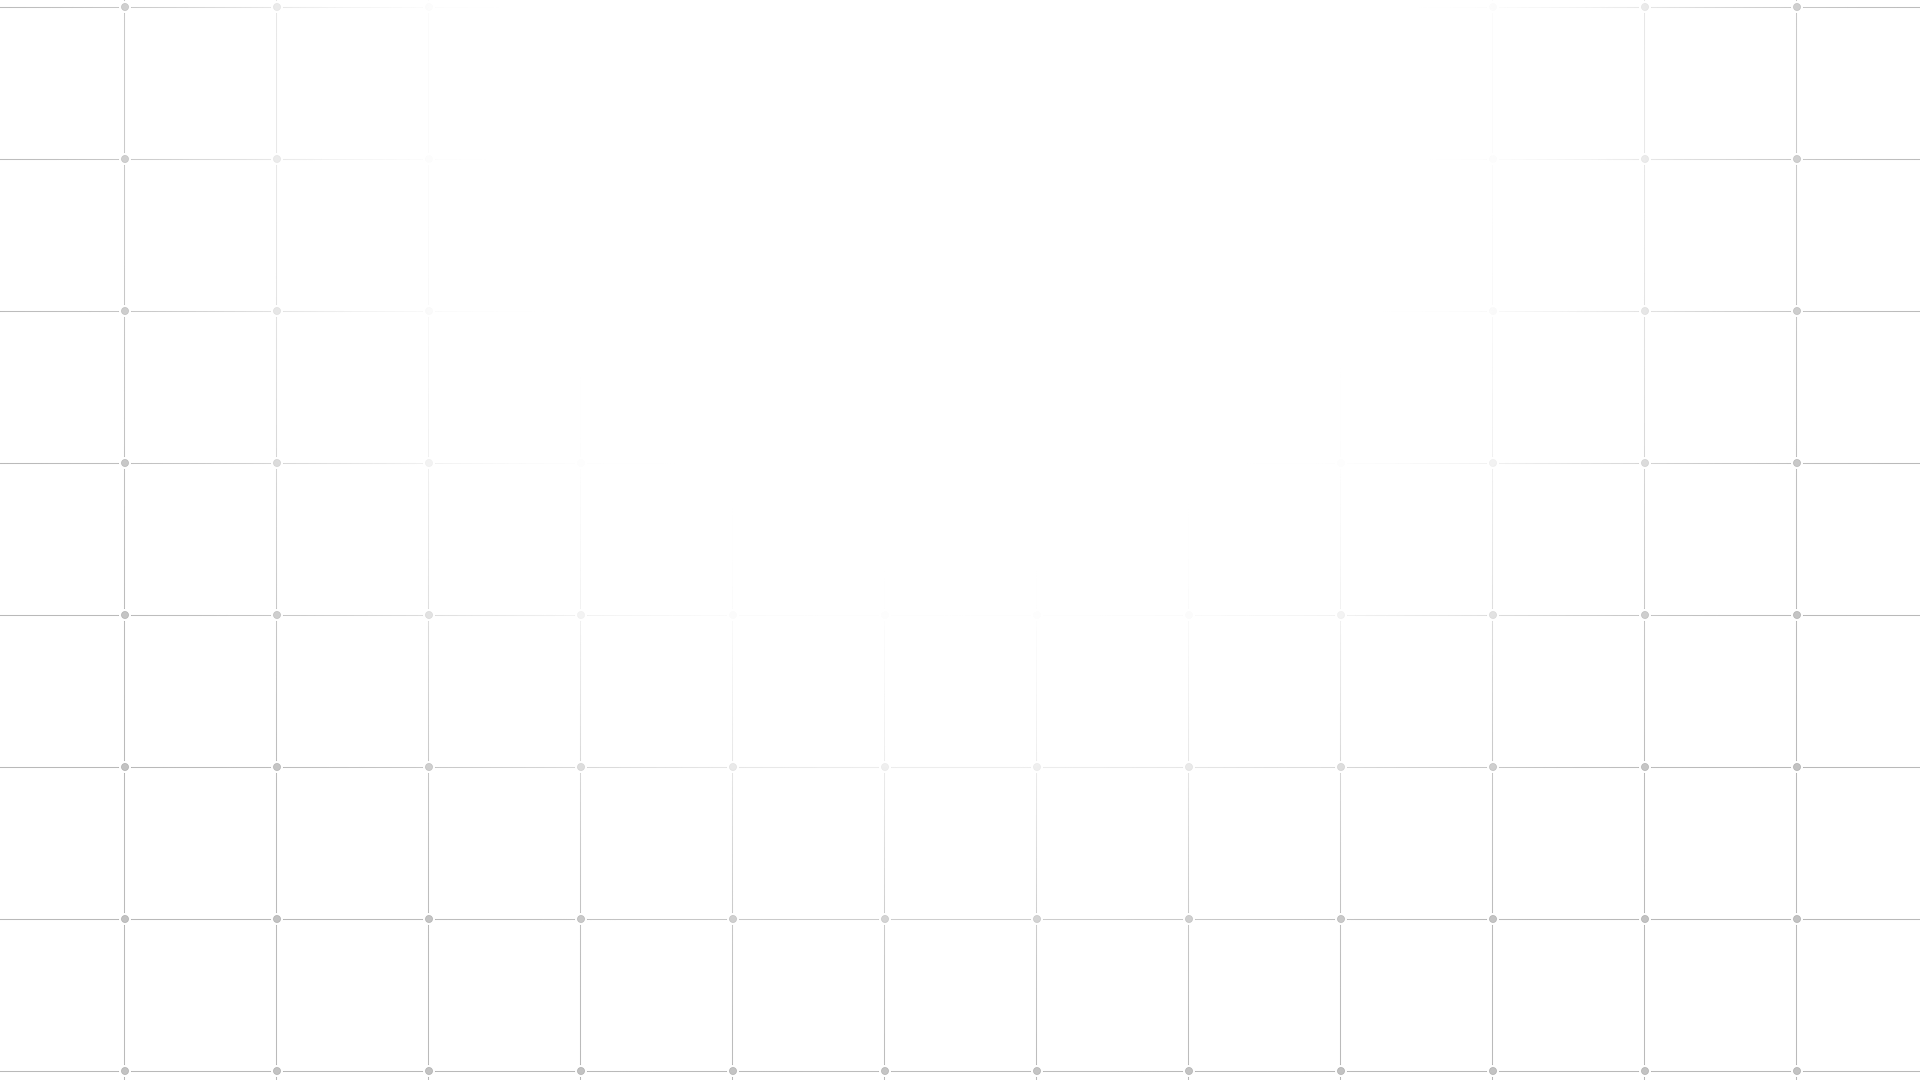
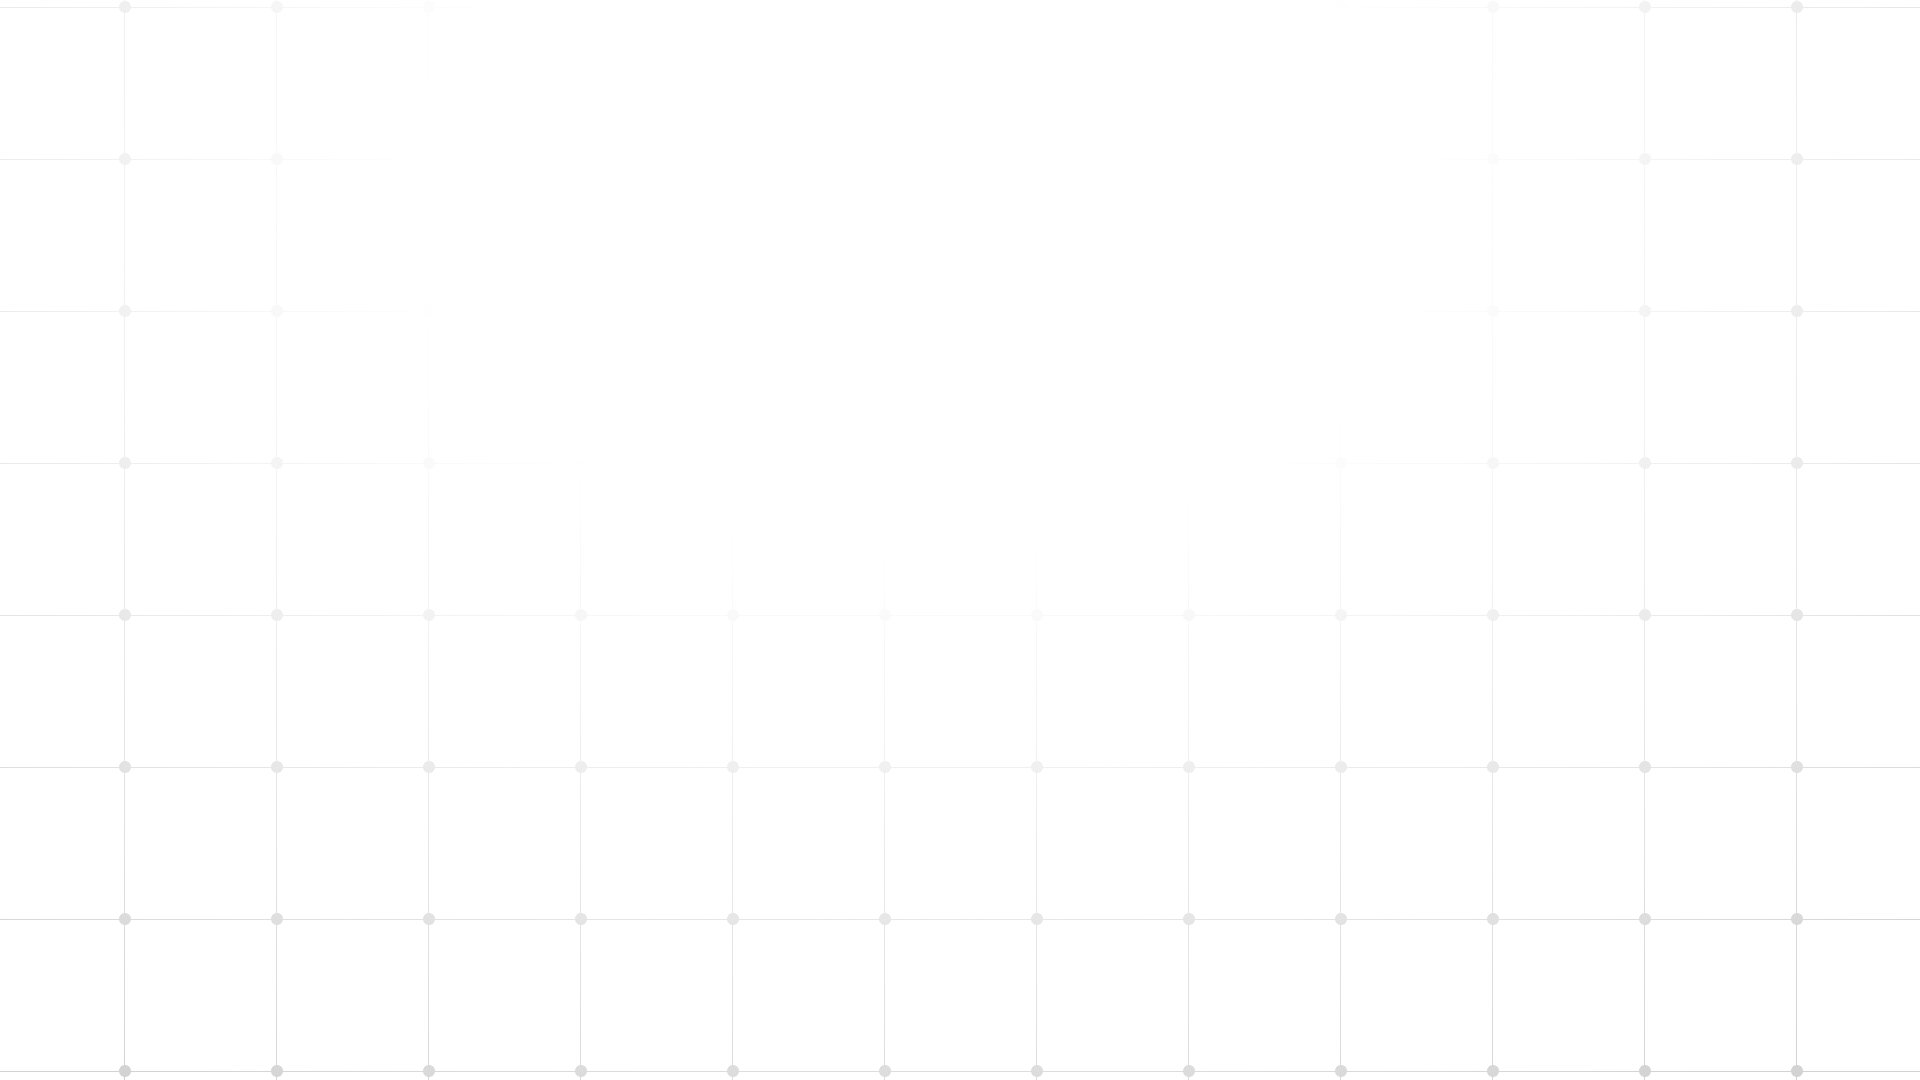
Assets update

diff --git a/src/libraries/templateBrutal.js b/src/libraries/templateBrutal.js
@@ -1,11 +1,25 @@
 // Templates of the slides being generated with the plugin
+import preview from "../app/assets/images/slides/CM/preview.png"
 
 const templateBrutal = {
     metadata: {
         name: "Brutal",
         description: "Brutal design with bold elements",
         availablePalettes: ['BRUTAL1'],
-        availableFonts: ['Archivo Narrow', 'Outfit', 'Mate']
+        availableFonts: ['Archivo Narrow', 'Outfit', 'Mate'],
+        preview: preview,
+        tags: [
+            { 
+                text: "Brutal", 
+                backgroundColor: "#F7E3DC",
+                textColor: "#802E11"
+            },
+            { 
+                text: "Bold", 
+                backgroundColor: "#E3DCF7",
+                textColor: "#2E1180"
+            }
+        ]
     },
     titleSlide: {
     backgroundColorIndex: 0,
@@ -21,7 +35,7 @@ const templateBrutal = {
       { type: "rectangle", position: [1880, 1058], size: [34, 1], colorIndex: 1, rotation: 90.0 },
       { type: "rectangle", position: [22, 1041], size: [34, 1], colorIndex: 1 },
       { type: "rectangle", position: [1864, 1041], size: [34, 1], colorIndex: 1 },
-      { type: "text", position: [56, 56], size: [1808, 244], content: "Project title describing it’s core value with additional text to add", colorIndex: 1, fontSize: 128, alignHorizontal: "LEFT", alignVertical: "TOP", fontWeight: "Bold", letterSpacing: -1, lineHeight: 95 },
+      { type: "text", position: [56, 56], size: [1808, 244], content: "Project title describing it's core value with additional text to add", colorIndex: 1, fontSize: 128, alignHorizontal: "LEFT", alignVertical: "TOP", fontWeight: "Bold", letterSpacing: -1, lineHeight: 95 },
       { type: "text", position: [56, 894], size: [288, 23], content: "Project", colorIndex: 1, fontSize: 24, alignHorizontal: "LEFT", alignVertical: "TOP", fontWeight: "Bold", letterSpacing: -1, lineHeight: 95 },
       { type: "text", position: [360, 894], size: [288, 23], content: "Presented by", colorIndex: 1, fontSize: 24, alignHorizontal: "LEFT", alignVertical: "TOP", fontWeight: "Bold", letterSpacing: -1, lineHeight: 95 },
       { type: "text", position: [664, 894], size: [288, 23], content: "Event", colorIndex: 1, fontSize: 24, alignHorizontal: "LEFT", alignVertical: "TOP", fontWeight: "Bold", letterSpacing: -1, lineHeight: 95 },
@@ -50,7 +64,7 @@ const templateBrutal = {
       { type: "rectangle", position: [1880, 1058], size: [34, 1], colorIndex: 1, rotation: 90.0 },
       { type: "rectangle", position: [22, 1041], size: [34, 1], colorIndex: 1 },
       { type: "rectangle", position: [1864, 1041], size: [34, 1], colorIndex: 1 },
-      { type: "text", position: [56, 56], size: [1808, 244], content: "Short overview of the problem that’s being solved with your product", colorIndex: 1, fontSize: 128, alignHorizontal: "LEFT", alignVertical: "TOP", fontWeight: "Bold", letterSpacing: -1, lineHeight: 95 },
+      { type: "text", position: [56, 56], size: [1808, 244], content: "Short overview of the problem that's being solved with your product", colorIndex: 1, fontSize: 128, alignHorizontal: "LEFT", alignVertical: "TOP", fontWeight: "Bold", letterSpacing: -1, lineHeight: 95 },
       { type: "text", position: [56, 722], size: [1808, 302], content: "Larger description of the way that product solves the issue. May be longer that a sentence and up to 4 lines of text.", colorIndex: 2, fontSize: 64, alignHorizontal: "LEFT", alignVertical: "BOTTOM", fontWeight: "Medium", letterSpacing: -1, lineHeight: 95 },
       { type: "text", position: [56, 630], size: [1808, 243], content: "25%", colorIndex: 1, fontSize: 256, alignHorizontal: "LEFT", alignVertical: "BOTTOM", fontWeight: "Medium", letterSpacing: -1, lineHeight: 95 },
       { type: "text", position: [1424, 506], size: [136, 69], content: "Q1 2025 Event Project Name", colorIndex: 1, fontSize: 24, alignHorizontal: "CENTER", alignVertical: "TOP", fontWeight: "Bold", letterSpacing: -1, lineHeight: 95, opacity: 0.1 },
@@ -70,7 +84,7 @@ const templateBrutal = {
       { type: "rectangle", position: [1880, 1058], size: [34, 1], colorIndex: 1, rotation: 90.0 },
       { type: "rectangle", position: [22, 1041], size: [34, 1], colorIndex: 1 },
       { type: "rectangle", position: [1864, 1041], size: [34, 1], colorIndex: 1 },
-      { type: "text", position: [56, 56], size: [1808, 244], content: "Short overview of the problem that’s being solved with your product", colorIndex: 1, fontSize: 128, alignHorizontal: "LEFT", alignVertical: "TOP", fontWeight: "Bold", letterSpacing: -1, lineHeight: 95 },
+      { type: "text", position: [56, 56], size: [1808, 244], content: "Short overview of the problem that's being solved with your product", colorIndex: 1, fontSize: 128, alignHorizontal: "LEFT", alignVertical: "TOP", fontWeight: "Bold", letterSpacing: -1, lineHeight: 95 },
       { type: "text", position: [977, 422], size: [887, 102], content: "Larger description of the way that product solves the issue. May be longer that a sentence and up to 4 lines of text.", colorIndex: 2, fontSize: 32, alignHorizontal: "LEFT", alignVertical: "BOTTOM", fontWeight: "Medium", letterSpacing: -1, lineHeight: 95 },
       { type: "text", position: [360, 506], size: [136, 69], content: "Q1 2025 Event Project Name", colorIndex: 1, fontSize: 24, alignHorizontal: "CENTER", alignVertical: "TOP", fontWeight: "Bold", letterSpacing: -1, lineHeight: 95, opacity: 0.1 },
       { type: "image", imageSrc: "https://raw.githubusercontent.com/ntizish/startup-starter-1/refs/heads/main/src/app/assets/images/slides/BRUTAL/BRUTAL_1.png", position: [977, 558], size: [887, 466]}
@@ -90,7 +104,7 @@ const templateBrutal = {
       { type: "rectangle", position: [1880, 1058], size: [34, 1], colorIndex: 1, rotation: 90.0 },
       { type: "rectangle", position: [22, 1041], size: [34, 1], colorIndex: 1 },
       { type: "rectangle", position: [1864, 1041], size: [34, 1], colorIndex: 1 },
-      { type: "text", position: [56, 56], size: [896, 273], content: "Functionality that’s tailored for your need on the go", colorIndex: 1, fontSize: 96, alignHorizontal: "LEFT", alignVertical: "TOP", fontWeight: "Bold", letterSpacing: -1, lineHeight: 95 },
+      { type: "text", position: [56, 56], size: [896, 273], content: "Functionality that's tailored for your need on the go", colorIndex: 1, fontSize: 96, alignHorizontal: "LEFT", alignVertical: "TOP", fontWeight: "Bold", letterSpacing: -1, lineHeight: 95 },
       { type: "text", position: [56, 422], size: [887, 602], content: "Larger description of the way that product solves the issue. May be longer that a sentence and up to 4 lines of text.", colorIndex: 1, fontSize: 56, alignHorizontal: "LEFT", alignVertical: "BOTTOM", fontWeight: "Medium", letterSpacing: -1, lineHeight: 95 },
       { type: "text", position: [360, 506], size: [136, 69], content: "Q1 2025 Event Project Name", colorIndex: 1, fontSize: 24, alignHorizontal: "CENTER", alignVertical: "TOP", fontWeight: "Bold", letterSpacing: -1, lineHeight: 95, opacity: 0.1 },
       { type: "image", imageSrc: "https://raw.githubusercontent.com/ntizish/startup-starter-1/refs/heads/main/src/app/assets/images/slides/BRUTAL/BRUTAL_2.png", position: [1045.19, 56], size: [754.21, 1558]}
@@ -110,7 +124,7 @@ const templateBrutal = {
       { type: "rectangle", position: [1880, 1058], size: [34, 1], colorIndex: 1, rotation: 90.0 },
       { type: "rectangle", position: [22, 1041], size: [34, 1], colorIndex: 1 },
       { type: "rectangle", position: [1864, 1041], size: [34, 1], colorIndex: 1 },
-      { type: "text", position: [56, 56], size: [1808, 558], content: "Functionality that’s tailored for your need on the go", colorIndex: 1, fontSize: 196, alignHorizontal: "LEFT", alignVertical: "TOP", fontWeight: "Bold", letterSpacing: -1, lineHeight: 95 },
+      { type: "text", position: [56, 56], size: [1808, 558], content: "Functionality that's tailored for your need on the go", colorIndex: 1, fontSize: 196, alignHorizontal: "LEFT", alignVertical: "TOP", fontWeight: "Bold", letterSpacing: -1, lineHeight: 95 },
       { type: "text", position: [575, 506], size: [136, 69], content: "Q1 2025 Event Project Name", colorIndex: 1, fontSize: 24, alignHorizontal: "CENTER", alignVertical: "TOP", fontWeight: "Bold", letterSpacing: -1, lineHeight: 95, opacity: 0.1 },
       { type: "image", imageSrc: "https://raw.githubusercontent.com/ntizish/startup-starter-1/refs/heads/main/src/app/assets/images/slides/BRUTAL/BRUTAL_2.png", position: [784, 510], size: [437.32, 903.38]},
       { type: "image", imageSrc: "https://raw.githubusercontent.com/ntizish/startup-starter-1/refs/heads/main/src/app/assets/images/slides/BRUTAL/BRUTAL_2.png", position: [1272, 386], size: [437.32, 903.38]}

diff --git a/src/libraries/templateBold.js b/src/libraries/templateBold.js
@@ -1,10 +1,25 @@
 // Template definition for minimalist style
+import preview from "../app/assets/images/slides/CM/preview.png"
+
 const templateBold = {
   metadata: {
     name: "Bold",
     description: "Clean and simple designs with ample white space",
     availablePalettes: ['BOLD1'], // This template works best with these palettes
-    availableFonts: ['Archivo', 'Parkinsans', 'Montserrat Alternates'] // This template works best with these fonts
+    availableFonts: ['Archivo', 'Parkinsans', 'Montserrat Alternates'], // This template works best with these fonts
+    preview: preview,
+    tags: [
+      { 
+        text: "Minimal", 
+        backgroundColor: "#F0E6F7",
+        textColor: "#5A2A82"
+      },
+      { 
+        text: "Bright", 
+        backgroundColor: "#E3DCF7",
+        textColor: "#2E1180"
+      }
+    ]
   },
   titleSlide: {
     backgroundColorIndex: 0,
@@ -24,7 +39,7 @@ const templateBold = {
     title: "Problem Slide",
     elements: [
       { type: "rectangle", position: [1286, 1080], size: [318, 1080], colorIndex: 2, opacity: 0.1, rotation: 180.0 },
-      { type: "text", position: [56, 53], size: [896, 381], content: "Short overview of the problem that’s being solved with your product", colorIndex: 0, fontSize: 80, alignHorizontal: "LEFT", alignVertical: "TOP", fontWeight: "Bold", letterSpacing: -1, lineHeight: 90 },
+      { type: "text", position: [56, 53], size: [896, 381], content: "Short overview of the problem that's being solved with your product", colorIndex: 0, fontSize: 80, alignHorizontal: "LEFT", alignVertical: "TOP", fontWeight: "Bold", letterSpacing: -1, lineHeight: 90 },
       { type: "text", position: [56, 463], size: [592, 457], content: "Larger description of the way that product solves the issue. May be longer that a sentence and up to 8 lines of text.", colorIndex: 0, fontSize: 24, alignHorizontal: "LEFT", alignVertical: "TOP", fontWeight: "Medium", letterSpacing: -1, lineHeight: 110 },
       { type: "text", position: [56, 984], size: [136, 40], content: "PROJECT NAME", colorIndex: 0, fontSize: 18, alignHorizontal: "LEFT", alignVertical: "BOTTOM", fontWeight: "Bold", letterSpacing: -1, lineHeight: 110 },
       { type: "text", position: [208, 1004], size: [136, 20], content: "PROBLEM", colorIndex: 0, fontSize: 18, alignHorizontal: "LEFT", alignVertical: "BOTTOM", fontWeight: "Medium", letterSpacing: -1, lineHeight: 110 },
@@ -50,7 +65,7 @@ const templateBold = {
     title: "Solution Slide",
     elements: [
       { type: "rectangle", position: [700, 566.89], size: [896, 458], colorIndex: 2, rotation: 3.0 },
-      { type: "text", position: [56, 53], size: [1808, 381], content: "The solution is simply so unique it’s even hard to comprehend", colorIndex: 0, fontSize: 128, alignHorizontal: "LEFT", alignVertical: "TOP", fontWeight: "Bold", letterSpacing: -1, lineHeight: 105 },
+      { type: "text", position: [56, 53], size: [1808, 381], content: "The solution is simply so unique it's even hard to comprehend", colorIndex: 0, fontSize: 128, alignHorizontal: "LEFT", alignVertical: "TOP", fontWeight: "Bold", letterSpacing: -1, lineHeight: 105 },
       { type: "text", position: [56, 984], size: [136, 40], content: "PROJECT NAME", colorIndex: 0, fontSize: 18, alignHorizontal: "LEFT", alignVertical: "BOTTOM", fontWeight: "Bold", letterSpacing: -1, lineHeight: 110 },
       { type: "text", position: [208, 1004], size: [136, 20], content: "SOLUTION", colorIndex: 0, fontSize: 18, alignHorizontal: "LEFT", alignVertical: "BOTTOM", fontWeight: "Medium", letterSpacing: -1, lineHeight: 110 },
       { type: "rectangle", position: [1574, 531], size: [12, 12], colorIndex: 1, borderRadius: 9999, rotation: -3.0 },
@@ -64,7 +79,7 @@ const templateBold = {
     title: "Solution Slide",
     elements: [
       { type: "image", imageSrc: "https://raw.githubusercontent.com/ntizish/startup-starter-1/refs/heads/main/src/app/assets/images/slides/BOLD/B_4.png", position: [968, 22], size: [933, 1036]},
-      { type: "text", position: [56, 53], size: [896, 381], content: "Functionality that’s tailored for your need on the go", colorIndex: 1, fontSize: 72, alignHorizontal: "LEFT", alignVertical: "TOP", fontWeight: "Bold", letterSpacing: -1, lineHeight: 105 },
+      { type: "text", position: [56, 53], size: [896, 381], content: "Functionality that's tailored for your need on the go", colorIndex: 1, fontSize: 72, alignHorizontal: "LEFT", alignVertical: "TOP", fontWeight: "Bold", letterSpacing: -1, lineHeight: 105 },
       { type: "text", position: [56, 984], size: [136, 40], content: "PROJECT NAME", colorIndex: 1, fontSize: 18, alignHorizontal: "LEFT", alignVertical: "BOTTOM", fontWeight: "Bold", letterSpacing: -1, lineHeight: 110 },
       { type: "text", position: [208, 1004], size: [136, 20], content: "SOLUTION", colorIndex: 1, fontSize: 18, alignHorizontal: "LEFT", alignVertical: "BOTTOM", fontWeight: "Medium", letterSpacing: -1, lineHeight: 110 },
       { type: "text", position: [64, 470], size: [592, 219], content: "Larger description of the way that product solves the issue. May be longer that a sentence and up to 8 lines of text.", colorIndex: 1, fontSize: 24, alignHorizontal: "LEFT", alignVertical: "TOP", fontWeight: "Medium", letterSpacing: -1, lineHeight: 110 },

diff --git a/src/libraries/templateCreativeMess.js b/src/libraries/templateCreativeMess.js
@@ -1,11 +1,25 @@
 // Templates of the slides being generated with the plugin
+import preview from "../app/assets/images/slides/CM/preview.png"
 
 const templateCreativeMess = {
     metadata: {
         name: "Creative Mess",
         description: "Modern design with creative elements",
         availablePalettes: ['CM1', 'CM2', 'CM3'],
-        availableFonts: ['Inter', 'Space Grotesk', 'Chakra Petch']
+        availableFonts: ['Inter', 'Space Grotesk', 'Chakra Petch'],
+        preview: preview,
+        tags: [
+            { 
+                text: "Creative", 
+                backgroundColor: "#C7D6EB",
+                textColor: "#1E3D66"
+            },
+            { 
+                text: "Playful", 
+                backgroundColor: "#C1EEBB",
+                textColor: "#28661E"
+            }
+        ]
     },
     titleSlide: {
       backgroundColorIndex: 0,

diff --git a/src/app/components/05_Pages/P_TemplateSelection.jsx b/src/app/components/05_Pages/P_TemplateSelection.jsx
@@ -18,25 +18,13 @@ export default function P_TemplateSelection({ onSelect, onBack, selectedTemplate
       // For now, hardcode the preview image for Creative Mess
       // In a real app, you'd have a more dynamic way to get these
       let previewImage = null;
-      if (template.id === 'CreativeMess') {
-        previewImage = creativeMessPreview;
+      if (template.preview) {
+        previewImage = template.preview;
       }
       
       return {
         ...template,
-        image: previewImage,
-        tags: [
-          { 
-            text: "Creative", 
-            backgroundColor: "#C7D6EB",
-            textColor: "#1E3D66"
-          },
-          { 
-            text: "Modern", 
-            backgroundColor: "#C1EEBB",
-            textColor: "#28661E"
-          }
-        ]
+        image: previewImage
       };
     });
     

diff --git a/src/libraries/templateRegistry.js b/src/libraries/templateRegistry.js
@@ -32,7 +32,9 @@ export function getAllTemplates() {
   return Object.entries(templates).map(([id, template]) => ({
     id,
     name: template.metadata.name,
-    description: template.metadata.description
+    description: template.metadata.description,
+    preview: template.metadata.preview,
+    tags: template.metadata.tags || []
   }));
 }
 

diff --git a/src/libraries/palettes/CM3.js b/src/libraries/palettes/CM3.js
@@ -1,7 +1,7 @@
 const CM3 = {
     id: 'CM3',
     name: 'Creative Mess 3',
-    colors: ['#F2F2F2', '#333333', '#FF6B6B'],
+    colors: ['#4C7C6E', '#FFFFFF', '#8CD3BE'],
     tags: [
       { 
         text: "Bold", 
